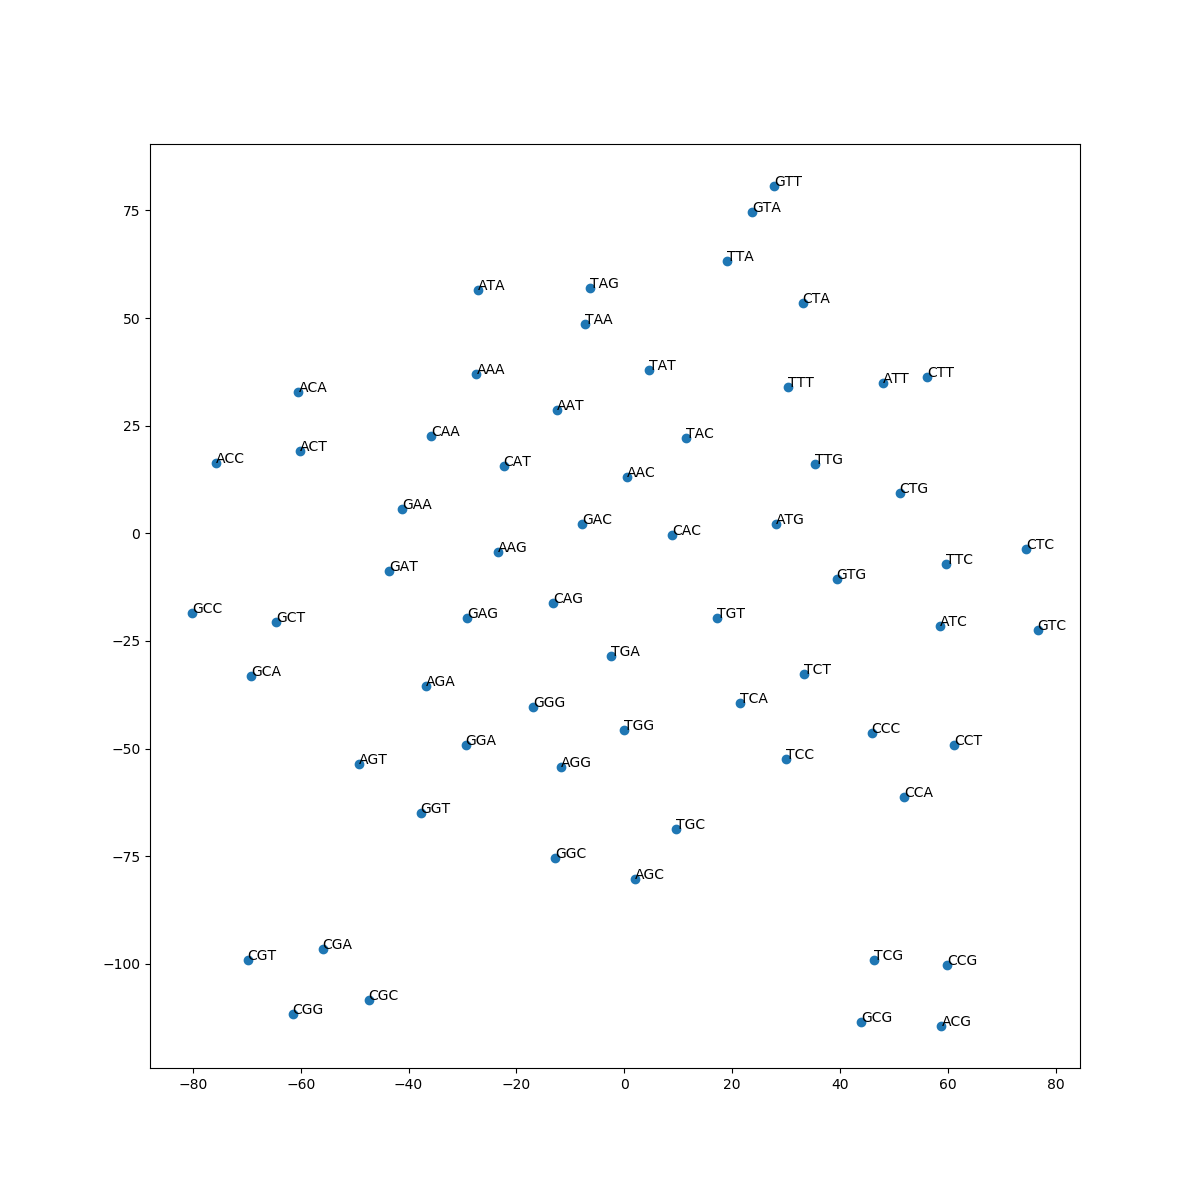
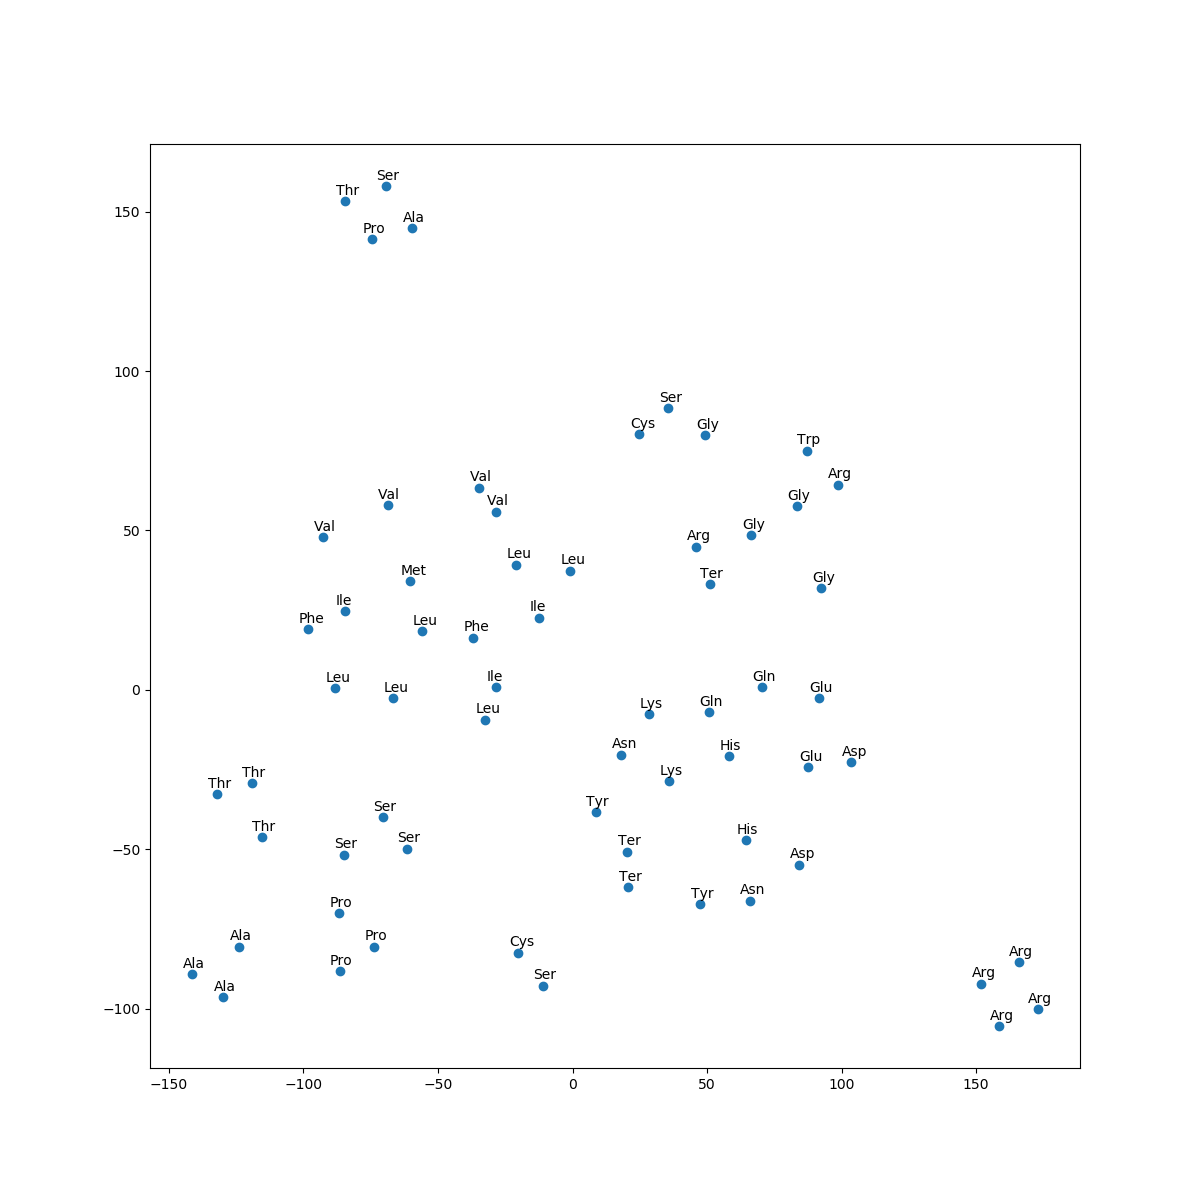
tsne improvements, not-yet-debugged hipsci majiq junc boilerplate

diff --git a/majiq/voila/extract_seq_from_filtered_tsv_junc.py b/majiq/voila/extract_seq_from_filtered_tsv_junc.py
@@ -1,0 +1,208 @@
+from collections import defaultdict
+import time
+import numpy as np
+from utils import reverse_complement, one_hot_encode_seq, intron_mean, exon_mean, intron_std, exon_std
+
+startt = time.time()
+# want to load chromosome as one giant string
+def load_chrom_seq(chrom):
+    with open(f'../../data/chromosomes/chr{chrom}.fa') as f:
+        loaded_chrom_seq = f.read().replace('\n', '')
+        if chrom < 10:
+            return loaded_chrom_seq[5:]
+        else:
+            return loaded_chrom_seq[6:]
+
+data_path = '../../data'
+save_to_low = 'hipsci_majiq/low.npy'
+save_to_high = 'hipsci_majiq/high.npy'
+save_to_cons = 'hipsci_majiq/cons.npy'
+
+introns_bef_start = 70 # introns
+exons_after_start = 70 # exons
+exons_bef_end = 70 # exons
+introns_after_end = 70 # introns
+
+es_lines = []
+psis = []
+cons_exons, high_exons, low_exons = [], [], []
+var1, var2, var3 = 0, 0, 0
+shorter_first, shorter_second = 0, 0
+shorter_first_var1, shorter_second_var1 = 0, 0
+shorter_first_var2, shorter_second_var2 = 0, 0
+junc_not_matching_exon = 0
+d = defaultdict(lambda: 0)
+prev_start1 = 0
+denovo = 0
+with open('filtered_all.tsv') as f:
+    loaded_chrom = 1
+    chrom_seq = load_chrom_seq(loaded_chrom)
+
+    for i, line in enumerate(f):
+        if i == 0: continue
+        genename, geneid, lsvid, epsi, stdev, lsvtype, njunc, nexon, denovojunc, \
+        chrom, strand, juncoord, excoords, ircoord, ucsc = line.replace('\n', '').split('\t')
+        denovo += denovojunc.count('1')
+
+
+        coord1, coord2 = juncoord.split(';')
+        idx1, idx2 = coord1.find('-'), coord2.find('-')
+        s1, e1 = int(coord1[:idx1]), int(coord1[idx1 + 1:])
+        s2, e2 = int(coord2[:idx2]), int(coord2[idx2 + 1:])
+
+        excoord1, excoord2, excoord3 = excoords.split(';')
+        exidx1, exidx2, exidx3 = excoord1.find('-'), excoord2.find('-'), excoord2.find('-')
+        ex1start, ex1end = int(excoord1[:exidx1]), int(excoord1[exidx1 + 1:])
+        ex2start, ex2end = int(excoord2[:exidx2]), int(excoord2[exidx2 + 1:])
+        ex3start, ex3end = int(excoord3[:exidx3]), int(excoord3[exidx3 + 1:])
+
+        if s1 == s2:
+            var1 += 1
+            if (e1 - s1) < (e2 - s2):
+                shorter_first_var1 += 1
+            else:
+                shorter_second_var1 += 1
+        elif e1 == e2:
+            var2 += 1
+            if (e1 - s1) < (e2 - s2):
+                shorter_first_var2 += 1
+            else:
+                shorter_second_var2 += 1
+        else:
+            var3 += 1
+        if (e1 - s1) < (e2 - s2):
+            shorter_first += 1
+        else: shorter_second += 1
+        for coord in [s1, s2, e1, e2]:
+            if str(coord) not in excoords:
+                junc_not_matching_exon += 1
+                break
+        # copy from other extract sequence files:
+        # extract sequence
+        if chrom > loaded_chrom:
+            loaded_chrom += 1
+            chrom_seq = load_chrom_seq(loaded_chrom)
+
+        # standard: window1 will always be the junction skipping the cassette exon
+        if (e1 - s1) > (e2 - s2):
+            window_around_start1 = chrom_seq[s1 - introns_bef_start - 1:s1 + exons_after_start - 1]
+            window_around_end1 = chrom_seq[e1 - exons_bef_end - 2:e1 + introns_after_end - 2]
+            window_around_start2 = chrom_seq[s2 - introns_bef_start - 1:s2 + exons_after_start - 1]
+            window_around_end2 = chrom_seq[e2 - exons_bef_end - 2:e2 + introns_after_end - 2]
+            psi1, psi2 = map(float, epsi.split(';'))
+        else:
+            window_around_start1 = chrom_seq[s1 - introns_bef_start - 1:s1 + exons_after_start - 1]
+            window_around_end1 = chrom_seq[e1 - exons_bef_end - 2:e1 + introns_after_end - 2]
+            window_around_start2 = chrom_seq[s2 - introns_bef_start - 1:s2 + exons_after_start - 1]
+            window_around_end2 = chrom_seq[e2 - exons_bef_end - 2:e2 + introns_after_end - 2]
+            psi2, psi1 = map(float, epsi.split(';'))
+        if strand == '-':
+            window_around_start1, window_around_end1 = reverse_complement(window_around_end1[::-1]), \
+                                                     reverse_complement(window_around_start1[::-1])
+            window_around_start2, window_around_end2 = reverse_complement(window_around_end2[::-1]), \
+                                                     reverse_complement(window_around_start2[::-1])
+        # # encode & convert to numpy arrays
+        start1, end1 = one_hot_encode_seq(window_around_start1), one_hot_encode_seq(window_around_end1)
+        start1, end1 = np.array(start1), np.array(end1)
+        start2, end2 = one_hot_encode_seq(window_around_start2), one_hot_encode_seq(window_around_end2)
+        start2, end2 = np.array(start2), np.array(end2)
+
+        # my brain is starting to hurt
+        # don't think I need the below with standardization above
+        # if (e1 - s1) > (e2 - s2): # s1-e1 is skipping junction
+        #     l11, l21, l31 = ex1end-ex1start, ex3start-ex1end, ex3end-ex3start
+        #     if s1 == s2: # left junction
+        #         l12, l22, l32 = ex1end-ex1start, ex2start-ex1end, ex2end-ex2start
+        #     elif e1 == e2: # right junction
+        #         l12, l22, l32 = ex2end - ex2start, ex3start - ex2end, ex3end - ex3start
+        # else: # s1-e1 is including junction
+        #     if s1 == s2: # left junction
+        #         l12, l22, l32 = ex1end-ex1start, ex2start-ex1end, ex2end-ex2start
+        #     elif e1 == e2: # right junction
+        #         l12, l22, l32 = ex2end - ex2start, ex3start - ex2end, ex3end - ex3start
+        #
+        #     l11, l21, l31 = ex1end-ex1start, ex3start-ex1end, ex3end-ex3start
+
+        l11, l21, l31 = ex1end - ex1start, ex3start - ex1end, ex3end - ex3start
+        if s1 == s2:  # left junction
+            l12, l22, l32 = ex1end - ex1start, ex2start - ex1end, ex2end - ex2start
+        elif e1 == e2:  # right junction
+            l12, l22, l32 = ex2end - ex2start, ex3start - ex2end, ex3end - ex3start
+
+        l11, l21, l31 = (l11 - exon_mean) / exon_std, (l21 - intron_mean) / intron_std, (l31 - exon_mean) / exon_std
+        l12, l22, l32 = (l12 - exon_mean) / exon_std, (l22 - intron_mean) / intron_std, (l32 - exon_mean) / exon_std
+
+
+        lens_and_psi_vector1 = np.array([l11, l21, l31, psi1])
+        start_and_end1 = np.concatenate((start1, end1))
+        sample1 = np.concatenate((start_and_end1,lens_and_psi_vector1.reshape(1,4))).astype(np.float32)
+        if psi1 < 0.8:
+            low_exons.append(sample1)
+        elif psi1 < 1:
+            high_exons.append(sample1)
+        else:
+            cons_exons.append(sample1)
+
+        lens_and_psi_vector2 = np.array([l12, l22, l32, psi2])
+        start_and_end2 = np.concatenate((start2, end2))
+        sample2 = np.concatenate((start_and_end2,lens_and_psi_vector2.reshape(1,4))).astype(np.float32)
+        if psi2 < 0.8:
+            low_exons.append(sample2)
+        elif psi2 < 1:
+            high_exons.append(sample2)
+        else:
+            cons_exons.append(sample2)
+        psis.append(psi1)
+    low_psi_exons = np.array(low_exons)
+    high_psi_exons = np.array(high_exons)
+    cons_exons = np.array(cons_exons)
+
+        # # save
+        # es_lines.append((geneid, lsvid, lsvtype, epsi, stdev, a5ss, a3ss, es, njunc, nexon, juncoord, ircoord,
+        #                  s1, e1, s2, e2))
+        # if s1 == prev_start1:
+        #     exons.append(es_lines[-1])
+        # prev_start1 = s1
+
+
+# es_lines.sort(key=lambda tup: tup[-1])
+# es_lines.sort(key=lambda tup: tup[-2])
+# es_lines.sort(key=lambda tup: tup[-3])
+# es_lines.sort(key=lambda tup: tup[-4])
+psis = np.array(psis)
+print(f'Number of samples: {len(psis)}')
+print(f'Mean PSI: {np.mean(psis)}')
+print(f'Median PSI: {np.median(psis)}')
+
+
+print(f'Number of low PSI exons: {len(low_exons)}')
+print(f'Number of high PSI exons: {len(high_exons)}')
+print(f'Number of cons exons: {len(cons_exons)}')
+
+np.save(f'{data_path}/{save_to_low}', low_exons)
+np.save(f'{data_path}/{save_to_high}', high_exons)
+np.save(f'{data_path}/{save_to_cons}', cons_exons)
+print(f'Runtime {time.time()-startt}')
+
+print(f'Number of junctions where cassette exon is left: {var1}') # 10886
+print(f'Number of junctions where cassette exon is right: {var2}') # 10952
+print(f'Number of junctions where cassette exon is neither left nor right: {var3}') # 862
+print(f'Number of junctions where shorter junction is first: {shorter_first}') # 10899
+print(f'Number of junctions where shorter junction is second: {shorter_second}') # 11801
+
+print(f'Number of var1 junctions where shorter junction is first: {shorter_first_var1}') # 5379
+print(f'Number of var1 junctions where shorter junction is second: {shorter_second_var1}') # 5507
+print(f'Number of var2 junctions where shorter junction is first: {shorter_first_var2}') # 5076
+print(f'Number of var2 junctions where shorter junction is second: {shorter_second_var2}') # 5876
+
+print(f'Number of exon skipped events: {len(es_lines)}')  # 22700
+for (k, v) in d.items():
+    print(f'{k}: {v}')
+
+# with open('sorted_all.psi.tsv', 'w') as f:
+#     f.write(
+#         f'geneid\tlsvid\tlsvtype\tE[psi]\tStd[E[psi]]\ta5ss\ta3ss\tES\tnjunc\tnexon\tjunc coord\tir coord\tstart1\tend1\tstart2\tend2\n')
+#     for (geneid, lsvid, lsvtype, epsi, stdev, a5ss, a3ss, es, njunc, nexon, juncoord, ircoord,
+#          s1, e1, s2, e2) in es_lines:
+#         f.write(
+#             f'{geneid}\t{lsvid}\t{lsvtype}\t{epsi}\t{stdev}\t{a5ss}\t{a3ss}\t{es}\t{njunc}\t{nexon}\t{juncoord}\t{ircoord}\t{s1}\t{e1}\t{s2}\t{e2}\n')

diff --git a/preprocessing/distributed/w o w.py b/preprocessing/distributed/w o w.py
@@ -1,10 +1,65 @@
 import gensim.models
 
-xxx = gensim.models.Word2Vec.load('../../model/w2v-full-5epochs')
+model_name = 'd2v'
+# d2v: 7.5 I like the best, 25 previous favorite
+# w2v: 12.5 I like the best, 10 also decent
+perplexity = 7.5
+xxx = gensim.models.Word2Vec.load(f'../../model/{model_name}-full-5epochs')
 print('x')
 
 from sklearn.manifold import TSNE                   # final reduction
 import numpy as np                                  # array handling
+
+
+def codon_to_amino_acid(codon):
+    mapping = {
+        'ATA': 'I', 'ATC': 'I', 'ATT': 'I', 'ATG': 'M',
+        'ACA': 'T', 'ACC': 'T', 'ACG': 'T', 'ACT': 'T',
+        'AAC': 'N', 'AAT': 'N', 'AAA': 'K', 'AAG': 'K',
+        'AGC': 'S', 'AGT': 'S', 'AGA': 'R', 'AGG': 'R',
+        'CTA': 'L', 'CTC': 'L', 'CTG': 'L', 'CTT': 'L',
+        'CCA': 'P', 'CCC': 'P', 'CCG': 'P', 'CCT': 'P',
+        'CAC': 'H', 'CAT': 'H', 'CAA': 'Q', 'CAG': 'Q',
+        'CGA': 'R', 'CGC': 'R', 'CGG': 'R', 'CGT': 'R',
+        'GTA': 'V', 'GTC': 'V', 'GTG': 'V', 'GTT': 'V',
+        'GCA': 'A', 'GCC': 'A', 'GCG': 'A', 'GCT': 'A',
+        'GAC': 'D', 'GAT': 'D', 'GAA': 'E', 'GAG': 'E',
+        'GGA': 'G', 'GGC': 'G', 'GGG': 'G', 'GGT': 'G',
+        'TCA': 'S', 'TCC': 'S', 'TCG': 'S', 'TCT': 'S',
+        'TTC': 'F', 'TTT': 'F', 'TTA': 'L', 'TTG': 'L',
+        'TAC': 'Y', 'TAT': 'Y', 'TAA': '_', 'TAG': '_',
+        'TGC': 'C', 'TGT': 'C', 'TGA': '_', 'TGG': 'W',
+    }
+    return mapping[codon]
+
+def one_l_codon_to_three_l_codon(one_letter_codon_abbrv):
+    mapping = {
+        'F' : 'Phe',
+        'L' : 'Leu',
+        'S': 'Ser',
+        'Y': 'Tyr',
+        'X': 'Ter',
+        'C': 'Cys',
+        'W': 'Trp',
+        'P': 'Pro',
+        'H': 'His',
+        'Q': 'Gln',
+        'R': 'Arg',
+        'I': 'Ile',
+        'M': 'Met',
+        'T': 'Thr',
+        'N': 'Asn',
+        'K': 'Lys',
+        'V': 'Val',
+        'A': 'Ala',
+        'D': 'Asp',
+        'E': 'Glu',
+        'G': 'Gly',
+        'B': 'Asp/Asn',
+        'Z': 'Glu/Gln',
+        '_': 'Ter'
+    }
+    return mapping[one_letter_codon_abbrv]
 
 
 def reduce_dimensions(model):
@@ -22,7 +77,8 @@ def reduce_dimensions(model):
 
     # reduce using t-SNE
     vectors = np.asarray(vectors)
-    tsne = TSNE(n_components=num_dimensions, random_state=1)
+
+    tsne = TSNE(n_components=num_dimensions, random_state=1, perplexity=perplexity)
     vectors = tsne.fit_transform(vectors)
 
     x_vals = [v[0] for v in vectors]
@@ -57,13 +113,20 @@ def plot_with_matplotlib(x_vals, y_vals, labels):
     plt.scatter(x_vals, y_vals)
 
     #
-    # Label randomly subsampled 25 data points
+    # Label randomly subsampled 64 data points
     #
     indices = list(range(len(labels)))
     selected_indices = random.sample(indices, 64)
     for i in selected_indices:
-        plt.annotate(labels[i], (x_vals[i], y_vals[i]))
-    plt.savefig('tSNE-w2v.png')
+        # plt.annotate(codon_to_amino_acid(labels[i]), (x_vals[i], y_vals[i]))
+        label_name = codon_to_amino_acid(labels[i])
+        label_name = one_l_codon_to_three_l_codon(label_name)
+        xy = (x_vals[i], y_vals[i])
+        xytext = (x_vals[i]-3.5, y_vals[i]+2)
+        plt.annotate(label_name, xy=(x_vals[i], y_vals[i]),xytext=xytext)
+    plt.xlabel('x')
+    plt.ylabel('y')
+    plt.savefig(f'tSNE-{model_name}.png', bbox_inches='tight')
     plt.show()
 
 # try:
@@ -85,3 +148,6 @@ def infinite_sequence():
 x = infinite_sequence()
 for e in x:
     print(e)
+
+
+

diff --git a/preprocessing/HIPSCI/extract_seq_suppa.py b/preprocessing/HIPSCI/extract_seq_suppa.py
@@ -4,12 +4,13 @@ from utils import one_hot_encode_seq, reverse_complement
 
 startt = time.time()
 psis = []
-introns_bef_start = 70 # introns
-exons_after_start = 70 # exons
+
 data_path = '../../data'
 save_to_low = 'hipsci_suppa/low.npy'
 save_to_high = 'hipsci_suppa/high.npy'
 save_to_cons = 'hipsci_suppa/cons.npy'
+introns_bef_start = 70 # introns
+exons_after_start = 70 # exons
 exons_bef_end = 70 # exons
 introns_after_end = 70 # introns
 

diff --git a/utils/__init__.py b/utils/__init__.py
@@ -1,2 +1,3 @@
 from .util import *
 from .data_preprocessing import *
+from .constants import *

diff --git a/utils/constants.py b/utils/constants.py
@@ -1,0 +1,1 @@
+exon_mean, exon_std, intron_mean, intron_std = 145.42, 198.0, 5340., 17000.
